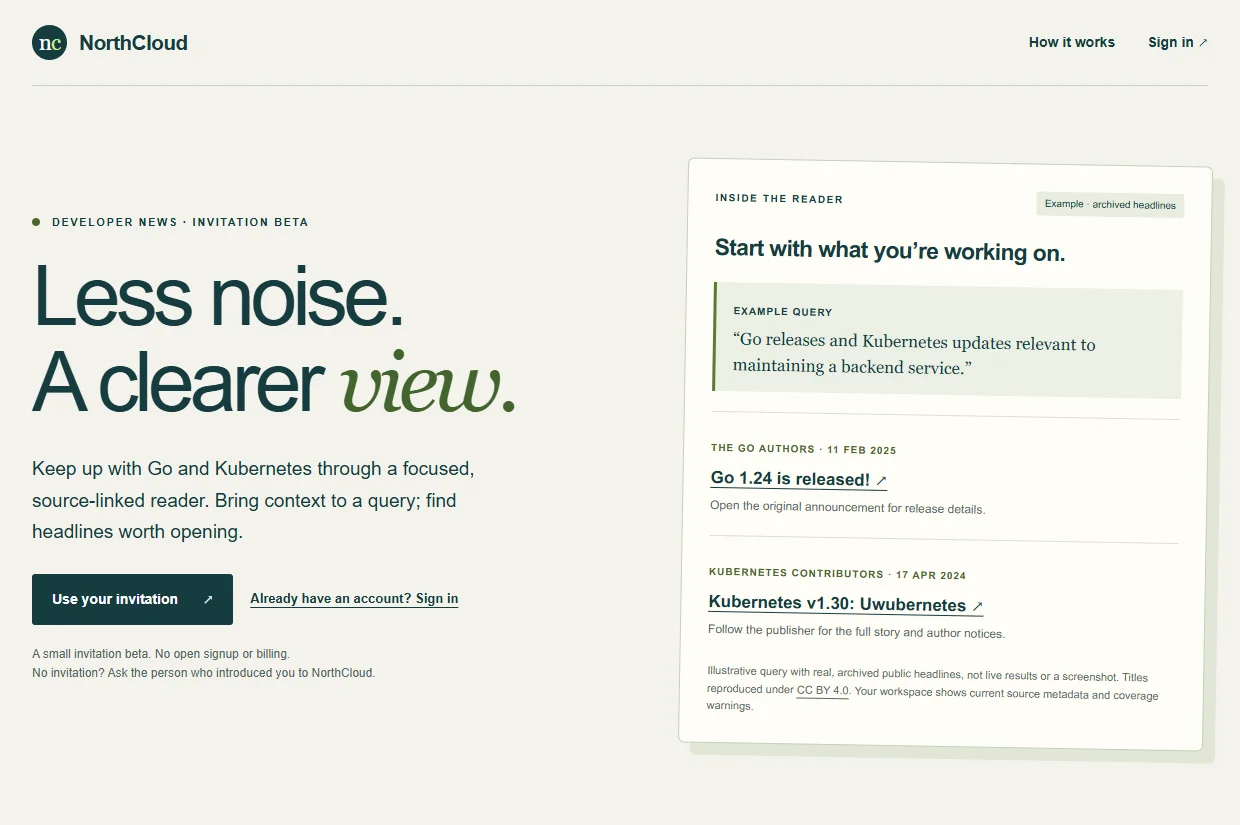
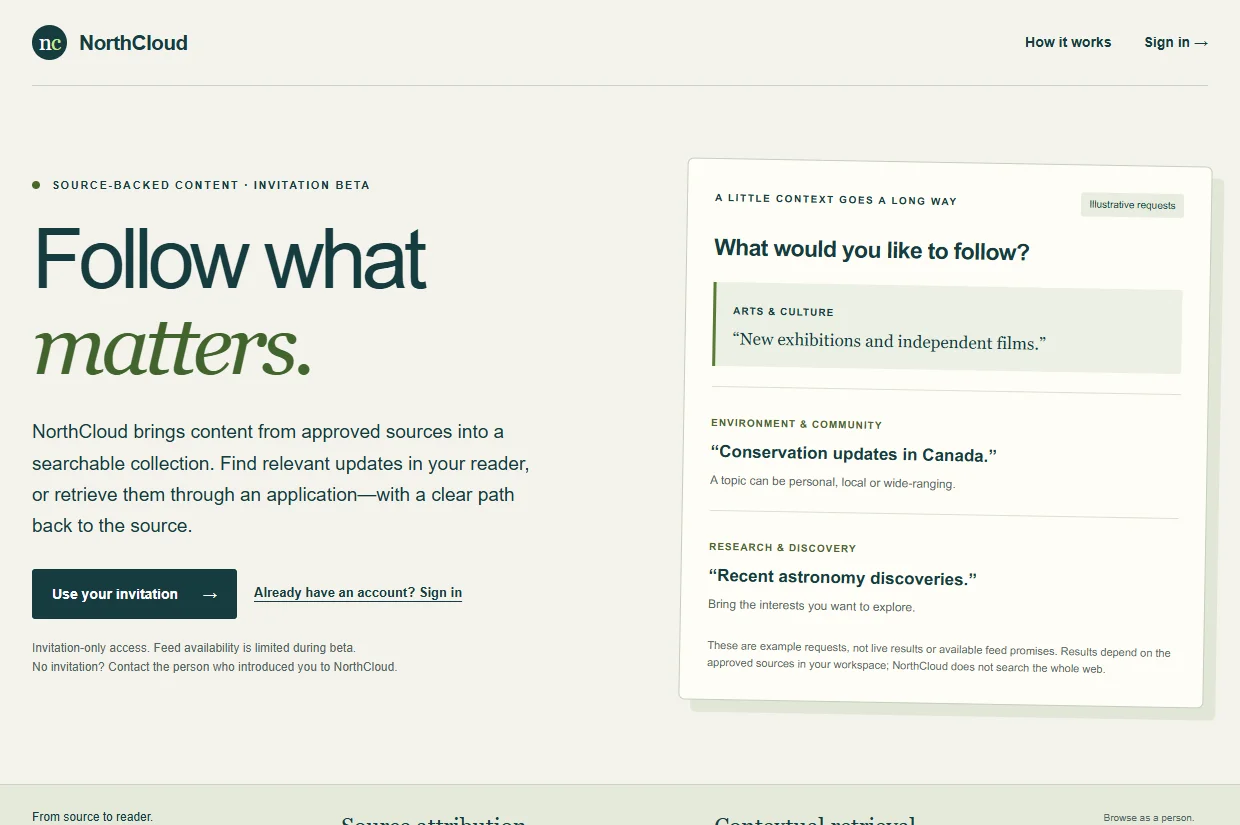
Update NorthCloud homepage screenshots

diff --git a/src/lib/components/site/NorthCloudScreenshot.svelte b/src/lib/components/site/NorthCloudScreenshot.svelte
@@ -40,7 +40,7 @@
 			height="825"
 			{loading}
 			decoding="async"
-			alt="NorthCloud homepage with the headline Less noise. A clearer view. and an illustrative source-linked reader for Go and Kubernetes news."
+			alt="NorthCloud homepage with the headline Follow what matters. and illustrative requests about arts, community and research."
 		/>
 	</a>
 	<figcaption class="eyebrow">Live homepage / October 1, 2026</figcaption>
